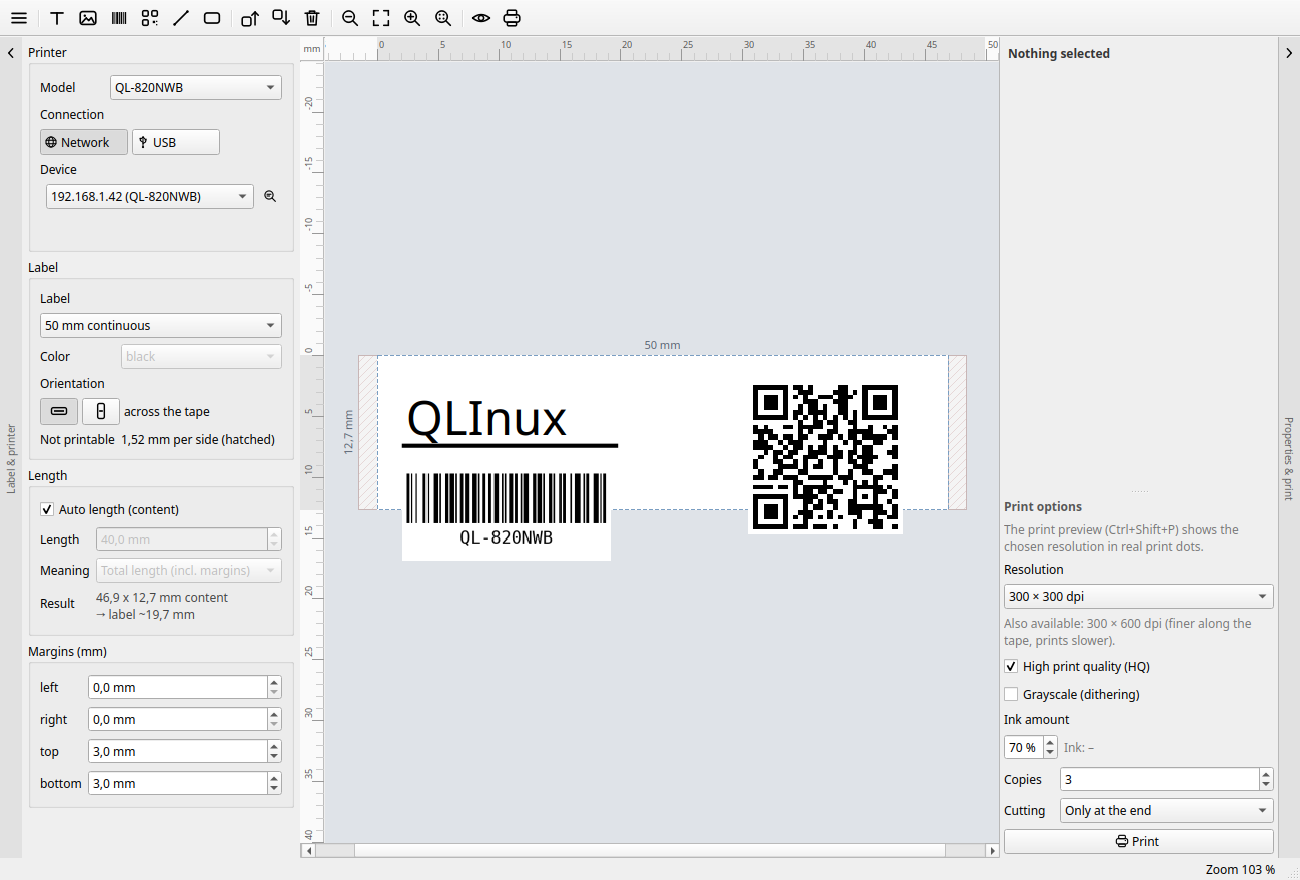
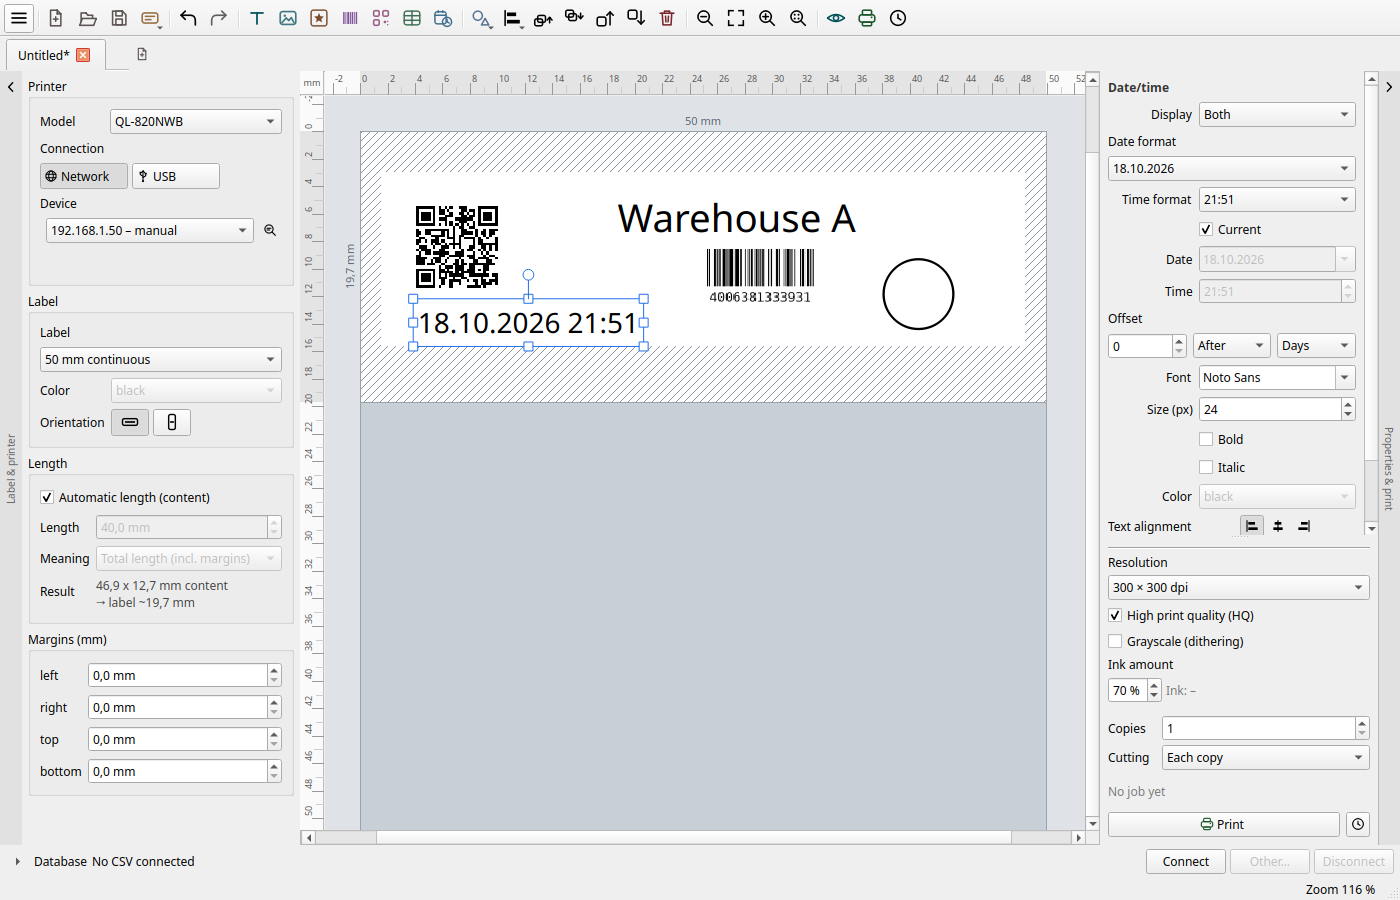
docs: update README features and English screenshots

diff --git a/README.md b/README.md
@@ -9,7 +9,7 @@ clone, in Python.**
 ![GUI: PySide6](https://img.shields.io/badge/GUI-PySide6-green)
 ![Platform: Linux](https://img.shields.io/badge/platform-Linux-lightgrey)
 
-![QLInux main window](assets/screenshot-main.png)
+![QLInux main window](assets/screenshot-main-en.png)
 
 QLInux designs labels on a real canvas (text, images, barcodes, QR codes),
 shows an exact monochrome print preview and prints straight to the printer —
@@ -29,18 +29,31 @@ The model list even appears in the app: *menu → About QLInux*.
 
 ## Features
 
-- **Canvas**: text (double-click to edit), images, barcodes, QR codes, lines,
-  rectangles, shapes, tables (cells, merge, insert and resize rows and columns),
-  date/time stamps (current clock or a fixed value, formats, offset) and
-  clip art (a sheet of original symbols, black or red, optional locked aspect);
-  move, scale, rotate, align (to the margin frame or to the selection), undo/redo.
+- **Canvas**: text (double-click to edit; inverted white on black, underline,
+  strikethrough, character and line spacing, vertical text direction and
+  alignment, automatic size or wrapping, bullet and numbered lists), images,
+  barcodes, QR codes, lines, rectangles, shapes (arrows, ellipse, triangle,
+  star), tables (cells, merge, insert and resize rows and columns; cell text is
+  typed directly on the label), date/time stamps (current clock or a fixed value,
+  formats, offset) and clip art (a sheet of original symbols, black or red,
+  optional locked aspect); move, scale, rotate, align (to the margin frame, to
+  the selection or to the guides), change the stacking order (one step or to the
+  front or back), undo/redo.
+- **Database (CSV)**: connect a CSV file in the bottom database panel and drag a
+  column onto a text, barcode or QR code (or onto an empty spot for a new bound
+  text). The value comes from the current record; select another row in the grid
+  to change it. The inspector's *Database field* changes the bound column. The
+  merged values stay on the label if the CSV is later disconnected or missing.
+  Not yet: one label per record or several labels in one print job.
 - **Label media**: pick tape by model, fixed or automatic length, margins,
   orientation across/along the tape, red printing where supported.
 - **Print**: 300 × 300 or 300 × 600 dpi, high quality mode, grayscale
   (dithering), ink amount, **1–99 copies per job** and
-  **cutting** — after each copy, only at the end, or not at all.
+  **cutting** — after each copy, only at the end, or not at all. A status area
+  shows the print state and the job history of the session.
 - **Printer selection without knowing addresses**: switches for network/USB,
-  discovery of network printers (mDNS + SNMP) and USB devices; *Detect label*
+  discovery of network printers (mDNS + SNMP) and USB devices; the printer you
+  used last is selected again on start when it is found; *Detect label*
   reads the inserted tape (USB only — the network port has no read-back).
 - **Preview** in real print dots, plus a print preview mode at 1:1 (Ctrl+Shift+P).
 - **Templates**: seven ready-made labels plus your own stored as `.qlx`
@@ -48,7 +61,7 @@ The model list even appears in the app: *menu → About QLInux*.
 - **German and English UI** (switch at runtime), macOS-like sheets instead of
   extra windows.
 
-![Print options](assets/screenshot-print.png)
+![Print preview](assets/screenshot-preview-en.png)
 
 ## Requirements
 
@@ -123,6 +136,7 @@ Settings (last printer, tape, print options, language) are stored in
 | Ctrl + click | Add or remove an object from the selection |
 | Shift + arrow keys | Move the selected object in larger steps |
 | Shift + click in a table | Extend the cell selection |
+| Tab / Shift + Tab in a table | Next or previous cell while typing |
 | Rotating without Shift | Stick to the nearest 90° until the pointer moves clearly away |
 | Shift while rotating | Rotate in 15° steps |
 
@@ -184,9 +198,10 @@ What comes across: text (one font per box; horizontal alignment; rotation in
 down to the label size), lines and frames. Text inside a cable template comes
 across too; the template itself does not. Text is not shrunk to fit the way
 P-touch does it. Rotation in the file is counter-clockwise (checked against
-P-touch Editor on a vertical logo). What does not: barcodes, tables, database
-fields, date/time fields, image cropping, and red ink on two-colour tapes.
-Those are listed in a note after import. Mixed-style runs inside one text box
+P-touch Editor on a vertical logo). Database text fields come across as bound text: the CSV is
+looked up next to the `.lbx`, and if it cannot be found the last merged text stays
+on the label. What does not: barcodes, tables, date/time fields, image cropping,
+and red ink on two-colour tapes. Those are listed in a note after import. Mixed-style runs inside one text box
 keep the box's base font, and Brother's monochrome image settings (threshold,
 dither) are not copied — the print dialog has its own.
 
@@ -247,6 +262,9 @@ Your own templates then appear in the same menu.
 | M4.2 | Templates (built-in and your own) | ✅ |
 | M4.3 | Packaging: AppImage (PyInstaller + appimagetool) | ✅ |
 | M4.4 | Open Brother P-touch files (`.lbx`, import only) | ✅ |
+| Database | CSV source, field bindings, record preview, LBX database import | ✅ |
+| Database | Database panel, drag-and-drop binding, database field in the inspector | ✅ |
+| Database | One label per record and multi-label print (serial numbering) | 🚧 |
 
 ## License
 
